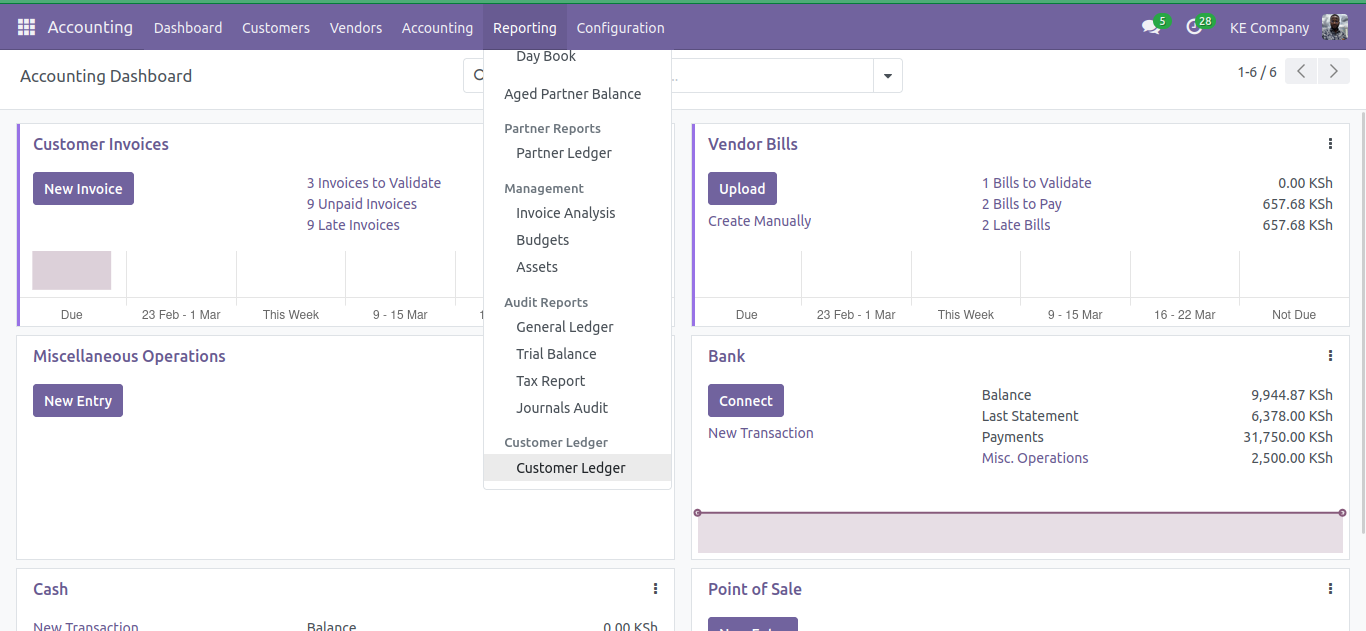
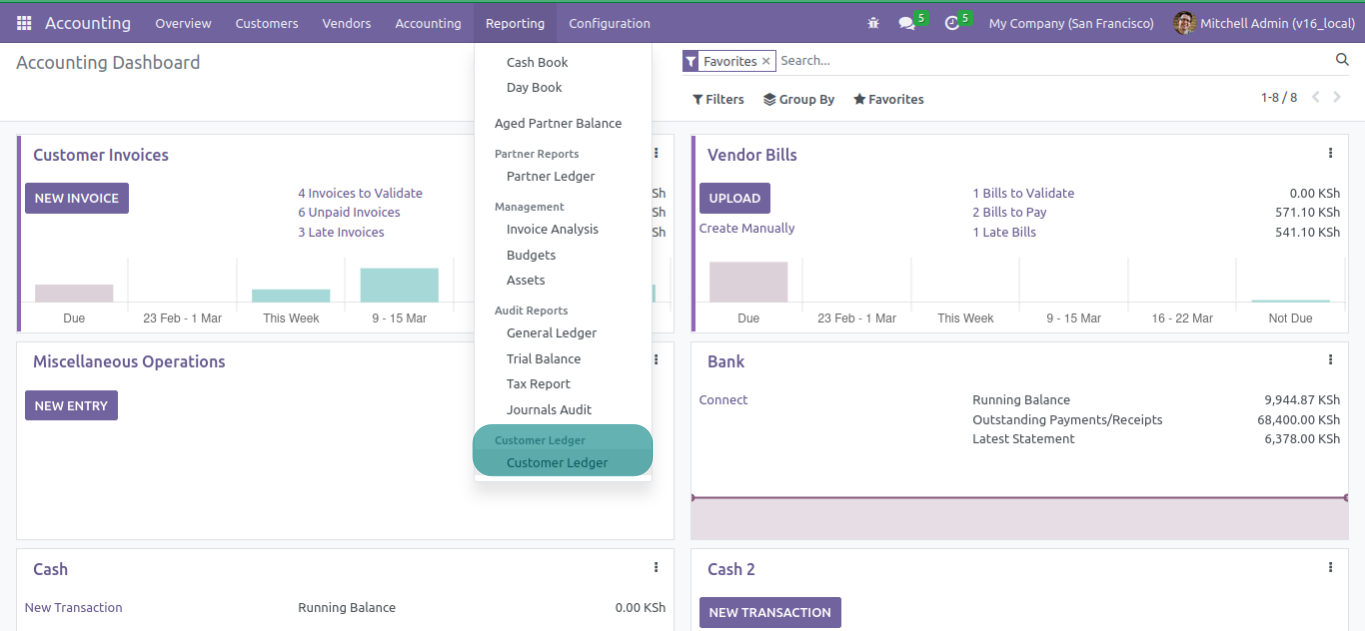
[UPDATE] updated README

diff --git a/README.md b/README.md
@@ -2,6 +2,14 @@
 
 This module enables you to generate customers' and vendors' ledger reports in Odoo. It depends on Invoicing (account)
 
+When installed, it introduces a new menu item __Customer Ledger__ in __Invoicing(Account)__ > __Reporting__.
+
 <img src="customer_partner_ledger/static/description/images/statement1.png" width="100%"/>
 
+This Menu Item opens a wizard, where you select the partner whose report you want to generate.
 
+<img src="customer_partner_ledger/static/description/images/statement2.png" width="100%"/>
+
+
+A sample of the generated report. The report takes the configured document layout.
+<img src="customer_partner_ledger/static/description/images/statement3.png" width="100%"/>
